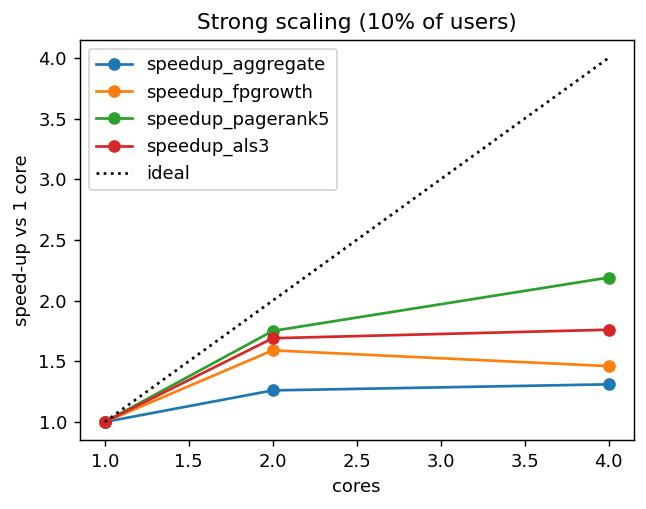
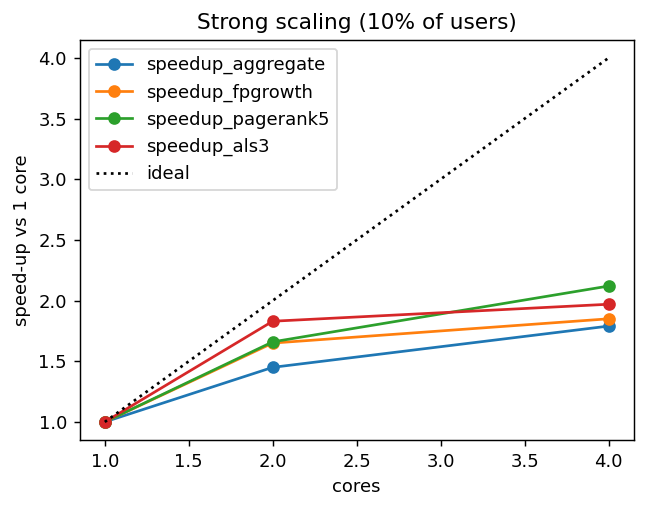
results: notebook 08 benchmark trên toàn bộ dữ liệu (#60)
Claude-Session: https://claude.ai/code/session_018dPR2wXi9PCxfS87gbsHZc

Changed region(s): [[0.1548, 0.5305, 0.9598, 0.8251]]

diff --git a/docs/RESULTS.md b/docs/RESULTS.md
@@ -21,7 +21,7 @@ FRACTION = **1**, chạy lúc `2026-11-17T22:04:23.868790+00:00`
 
 ## RQ1 - Sketch luồng - `results/02_streaming_sketches.json`
 
-FRACTION = **0.05**, chạy lúc `2026-11-17T20:08:53.426616+00:00`
+FRACTION = **1**, chạy lúc `2026-11-17T22:53:07.547005+00:00`
 
 | Chỉ số | Giá trị | Nguồn |
 |---|---|---|
@@ -29,60 +29,60 @@ FRACTION = **0.05**, chạy lúc `2026-11-17T20:08:53.426616+00:00`
 | CMS trong biên eps*N | 1 | `cms.within_bound_fraction` |
 | CMS bộ nhớ (MB) | 5.437 | `cms.memory_mb` |
 | CMS phân tán = tuần tự | có | `cms.distributed_equals_sequential` |
-| Bloom FPR thực nghiệm (mục tiêu 0.01) | 0.001131 | `bloom.empirical_fpr` |
-| Bloom bộ nhớ (MB) | 0.3492 | `bloom.memory_mb` |
-| DGIM sai số tối đa (lý thuyết <= 0.5) | 0.2989 | `dgim.max_rel_err` |
-| DGIM sai số TB | 0.1133 | `dgim.mean_rel_err` |
-| HLL rsd=0.01: sai số | 0.004652 | `hll.2.rel_err` |
-| Distinct users chính xác | 266,113 | `exact_distinct_users` |
+| Bloom FPR thực nghiệm (mục tiêu 0.01) | 0.0007587 | `bloom.empirical_fpr` |
+| Bloom bộ nhớ (MB) | 7.101 | `bloom.memory_mb` |
+| DGIM sai số tối đa (lý thuyết <= 0.5) | 0.2924 | `dgim.max_rel_err` |
+| DGIM sai số TB | 0.116 | `dgim.mean_rel_err` |
+| HLL rsd=0.01: sai số | 0.01479 | `hll.2.rel_err` |
+| Distinct users chính xác | 5,316,649 | `exact_distinct_users` |
 
 ## RQ2 - Tập phổ biến (Instacart) - `results/03_frequent_itemsets.json`
 
-FRACTION = **0.05**, chạy lúc `2026-11-17T20:25:07.687356+00:00`
+FRACTION = **1**, chạy lúc `2026-11-18T01:24:09.239914+00:00`
 
 | Chỉ số | Giá trị | Nguồn |
 |---|---|---|
-| Số giỏ | 152,909 | `instacart.n_baskets` |
-| Support 0.001: cặp phổ biến | 2,072 | `instacart.benchmark.-1.frequent_pairs` |
-| Support 0.001: ứng viên A-Priori | 937,301 | `instacart.benchmark.-1.apriori_candidates` |
-| Support 0.001: ứng viên PCY | 4,849 | `instacart.benchmark.-1.pcy_candidates` |
-| Support 0.001: PCY giảm ứng viên | 0.9948 | `instacart.benchmark.-1.pcy_candidate_reduction` |
+| Số giỏ | 3,055,045 | `instacart.n_baskets` |
+| Support 0.001: cặp phổ biến | 2,025 | `instacart.benchmark.-1.frequent_pairs` |
+| Support 0.001: ứng viên A-Priori | 1,517,074 | `instacart.benchmark.-1.apriori_candidates` |
+| Support 0.001: ứng viên PCY | 6,161 | `instacart.benchmark.-1.pcy_candidates` |
+| Support 0.001: PCY giảm ứng viên | 0.9959 | `instacart.benchmark.-1.pcy_candidate_reduction` |
 | A-Priori = PCY | có | `instacart.benchmark.-1.same_result` |
-| Thời gian A-Priori / PCY / FP-Growth (s) | 63.5 / 87.7 / 79.6 | `instacart.benchmark[-1].t_*` |
-| FP-Growth: số itemset | 4,185 | `instacart.n_itemsets` |
-| Luật lift > 2 | 552 | `instacart.n_rules_lift_gt_2` |
-| REES46 giỏ phiên / luật | 16,327 / 155 | `rees46_sessions` |
+| Thời gian A-Priori / PCY / FP-Growth (s) | 266.3 / 379.1 / 1,534 | `instacart.benchmark[-1].t_*` |
+| FP-Growth: số itemset | 4,118 | `instacart.n_itemsets` |
+| Luật lift > 2 | 524 | `instacart.n_rules_lift_gt_2` |
+| REES46 giỏ phiên / luật | 325,169 / 128 | `rees46_sessions` |
 
 ## RQ3 - LSH - `results/04_lsh_similarity.json`
 
-FRACTION = **0.05**, chạy lúc `2026-11-17T21:38:44.272350+00:00`
+FRACTION = **1**, chạy lúc `2026-11-18T01:43:48.650941+00:00`
 
 | Chỉ số | Giá trị | Nguồn |
 |---|---|---|
-| Số tập sản phẩm | 62,763 | `n_product_sets` |
+| Số tập sản phẩm | 168,626 | `n_product_sets` |
 | Tập đánh giá | 10,000 | `eval_subset` |
-| Cặp đúng (Jaccard >= ngưỡng) | 61 | `n_true_pairs_eval` |
+| Cặp đúng (Jaccard >= ngưỡng) | 3 | `n_true_pairs_eval` |
 | Ngưỡng | 0.3 | `threshold` |
 | LSH 128 hash: recall / precision | 1 / 1 | `lsh_vs_naive[1]` |
-| MLlib MinHashLSH: recall | 0.7869 | `lsh_vs_naive.-1.recall` |
-| Mũ thực nghiệm naive | 2.109 | `naive_exponent` |
-| LSH toàn bộ: số cặp | 2,541 | `lsh_all.pairs` |
-| LSH toàn bộ: thời gian (s) | 131.8 | `lsh_all.seconds` |
-| Naive ngoại suy (giờ) | 2.974 | `lsh_all.naive_extrapolated_hours` |
+| MLlib MinHashLSH: recall | 0.6667 | `lsh_vs_naive.-1.recall` |
+| Mũ thực nghiệm naive | 2.136 | `naive_exponent` |
+| LSH toàn bộ: số cặp | 1,578 | `lsh_all.pairs` |
+| LSH toàn bộ: thời gian (s) | 141.8 | `lsh_all.seconds` |
+| Naive ngoại suy (giờ) | 52.83 | `lsh_all.naive_extrapolated_hours` |
 
 ## RQ4 - PageRank / HITS - `results/05_link_analysis.json`
 
-FRACTION = **0.05**, chạy lúc `2026-11-17T20:46:35.311920+00:00`
+FRACTION = **1**, chạy lúc `2026-11-17T23:20:17.965464+00:00`
 
 | Chỉ số | Giá trị | Nguồn |
 |---|---|---|
-| Nút / cạnh | 51,987 / 288,190 | `graph` |
-| Spearman(PR, views) | 0.6796 | `pagerank.spearman.rank.views` |
-| Spearman(PR, purchases) | 0.4267 | `pagerank.spearman.rank.purchases` |
-| Top-1000 trùng views | 0.622 | `pagerank.top1000_overlap_with_views` |
-| Topic mass: toàn cục -> cá nhân hóa | 0.1396 -> 0.3601 (electronics) | `topic_sensitive` |
-| PageRank thời gian (s) | 259.9 | `pagerank.seconds` |
-| HITS thời gian (s) | 916.7 | `hits_seconds` |
+| Nút / cạnh | 152,189 / 4,445,337 | `graph` |
+| Spearman(PR, views) | 0.7948 | `pagerank.spearman.rank.views` |
+| Spearman(PR, purchases) | 0.5957 | `pagerank.spearman.rank.purchases` |
+| Top-1000 trùng views | 0.569 | `pagerank.top1000_overlap_with_views` |
+| Topic mass: toàn cục -> cá nhân hóa | 0.08299 -> 0.631 (apparel) | `topic_sensitive` |
+| PageRank thời gian (s) | 271.9 | `pagerank.seconds` |
+| HITS thời gian (s) | 1,243 | `hits_seconds` |
 
 ## RQ5 - Hệ gợi ý - `results/06_recommender.json`
 
@@ -103,30 +103,28 @@ FRACTION = **0.05**, chạy lúc `2026-11-17T21:27:53.201417+00:00`
 
 ## Phụ - Phân khúc và phễu - `results/07_segmentation_funnel.json`
 
-FRACTION = **0.05**, chạy lúc `2026-11-17T21:02:26.037691+00:00`
+FRACTION = **1**, chạy lúc `2026-11-18T00:45:56.281740+00:00`
 
 | Chỉ số | Giá trị | Nguồn |
 |---|---|---|
-| Người mua | 34,911 | `rfm.n_buyers` |
+| Người mua | 697,470 | `rfm.n_buyers` |
 | k tốt nhất | 4 | `rfm.best_k` |
-| Tỷ lệ mua lại Instacart | 0.5892 | `instacart.reorder_rate` |
+| Tỷ lệ mua lại Instacart | 0.5897 | `instacart.reorder_rate` |
 
 ## RQ6 - Khả năng mở rộng - `results/08_scalability_benchmark.json`
 
-> **Cảnh báo:** file này từ lần chạy trước bản sửa PR #48: phần theo kích thước dữ liệu (mũ) **không hợp lệ**; chỉ phần speed-up theo lõi dùng được.
-
-FRACTION = **chưa chạy**, chạy lúc `2026-11-17T21:24:09.604523+00:00`
+FRACTION = **1**, chạy lúc `2026-11-18T02:53:21.444756+00:00`
 
 | Chỉ số | Giá trị | Nguồn |
 |---|---|---|
-| Base fraction | chưa chạy | `base_fraction` |
-| Mũ: aggregate | -0.2738 | `exponents.t_aggregate` |
-| Mũ: FP-Growth | -0.2499 | `exponents.t_fpgrowth` |
-| Mũ: PageRank 5 vòng | -0.1043 | `exponents.t_pagerank5` |
-| Mũ: ALS 3 vòng | 0.3322 | `exponents.t_als3` |
-| Speed-up 4 lõi: PageRank | 2.19 | `speedup.-1.speedup_pagerank5` |
-| Speed-up 4 lõi: ALS | 1.76 | `speedup.-1.speedup_als3` |
-| Speed-up 4 lõi: aggregate | 1.31 | `speedup.-1.speedup_aggregate` |
+| Base fraction | 1 | `base_fraction` |
+| Mũ: aggregate | 0.4164 | `exponents.t_aggregate` |
+| Mũ: FP-Growth | 0.3899 | `exponents.t_fpgrowth` |
+| Mũ: PageRank 5 vòng | 0.2571 | `exponents.t_pagerank5` |
+| Mũ: ALS 3 vòng | 0.7186 | `exponents.t_als3` |
+| Speed-up 4 lõi: PageRank | 2.12 | `speedup.-1.speedup_pagerank5` |
+| Speed-up 4 lõi: ALS | 1.97 | `speedup.-1.speedup_als3` |
+| Speed-up 4 lõi: aggregate | 1.79 | `speedup.-1.speedup_aggregate` |
 
 ## Hadoop 3.3.6 thật - `results/hadoop/hadoop_vs_pipe.json`
 
